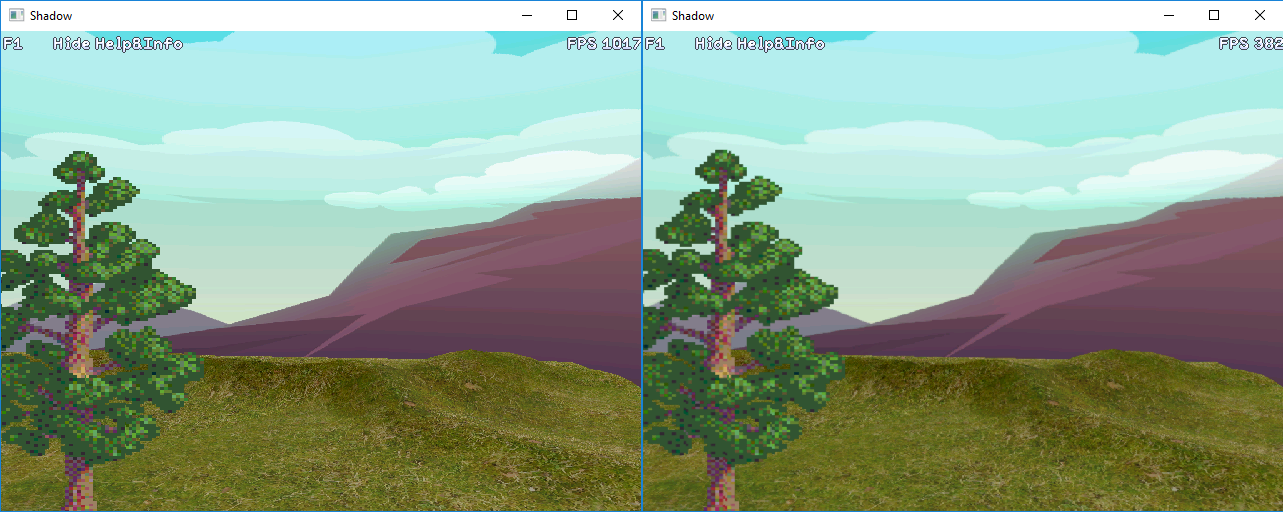
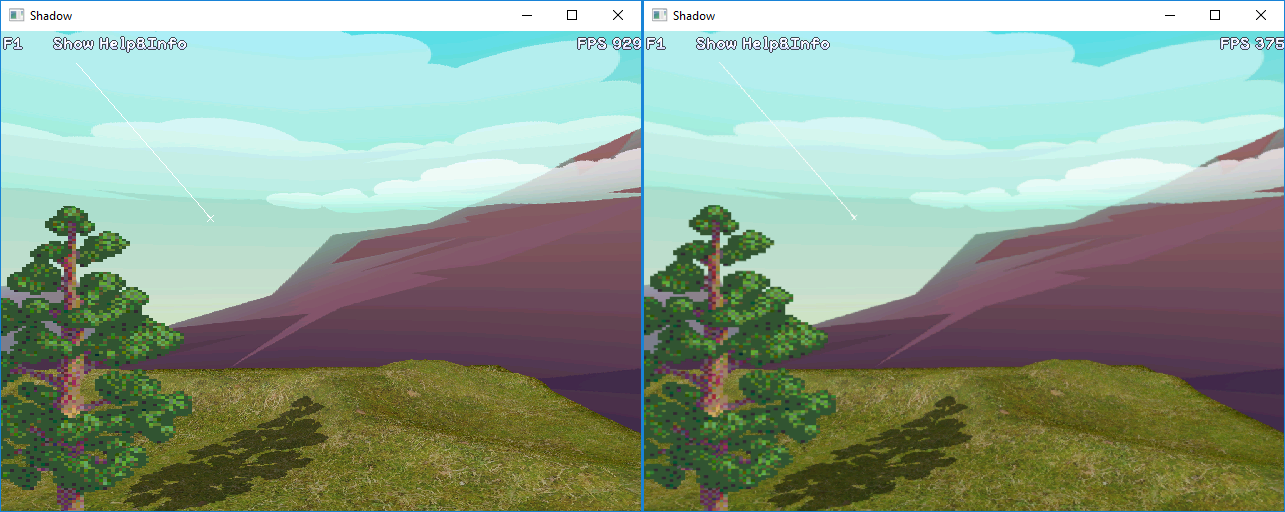
Shadow sample: fix "show help&info" message

diff --git a/TESTS/Shadow/Shadow.cpp b/TESTS/Shadow/Shadow.cpp
@@ -1272,7 +1272,7 @@ void RenderWorkerFunc(void *, int ) {
                                 (pauseShadow)?"ON":"OFF");
             }
 		} else {
-            char *HelpInfoFormatMin =  "F1      Hide Help&Info\n";
+            char *HelpInfoFormatMin =  "F1      Show Help&Info\n";
             if (!useBMFont) {
                 OutText16ModeFormat(AJ_LEFT, text, SIZE_TEXT, HelpInfoFormatMin);
             } else {
